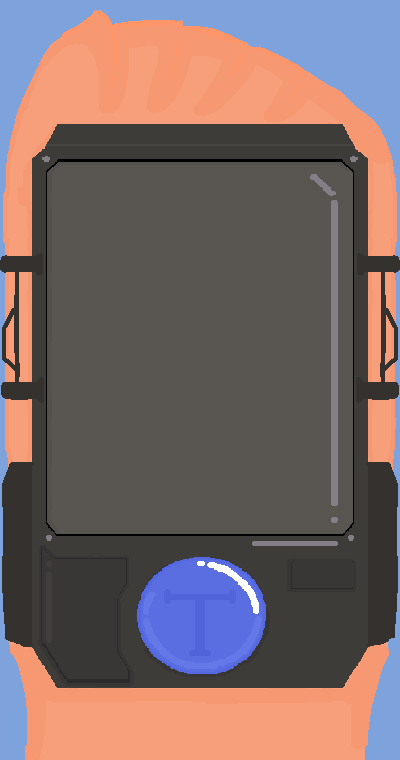
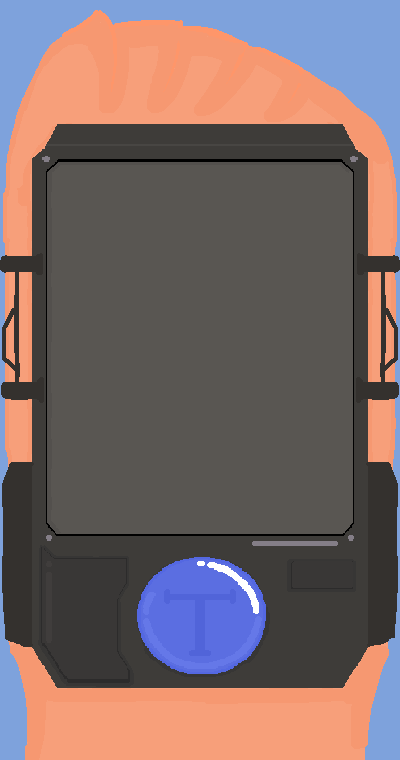
feat: added tower sprite sheet

Changed region(s): [[0.81, 0.2421, 0.87, 0.6961], [0.78, 0.2118, 0.81, 0.2421]]

diff --git a/src/visuals/antivirusVisual.ts b/src/visuals/antivirusVisual.ts
@@ -1,23 +1,63 @@
-import { Graphics } from 'pixi.js';
+import { AnimatedSprite, Assets, Container, Graphics, Rectangle, Texture } from 'pixi.js';
 import { PLACEHOLDER_COLORS } from '../config';
 import type { GameState } from '../types';
 
-// Placeholder — no dedicated art yet. Reuses the immunity-ring color/language so it reads
-// as "protected zone" consistently with the per-server immunity ring.
-export function buildAntivirusVisual(): Graphics {
-  const visual = new Graphics();
-  visual.label = 'antivirusTower';
-  visual.visible = false;
-  return visual;
+const FRAME_SIZE = 60;
+const FRAME_COUNT = 10;
+
+let towerTextures: Texture[] = [];
+
+// Slices public/assets/tower.png (600x60, 10 frames of 60x60) into the tower's idle/active
+// loop. Must resolve before the first buildAntivirusVisual() call — bootstrap() awaits this
+// ahead of the first startRun(), same as loadServerTextures.
+export async function loadAntivirusTextures(): Promise<void> {
+  const sheet = await Assets.load('/assets/tower.png');
+  sheet.source.scaleMode = 'nearest';
+
+  towerTextures = Array.from(
+    { length: FRAME_COUNT },
+    (_, i) => new Texture({ source: sheet.source, frame: new Rectangle(i * FRAME_SIZE, 0, FRAME_SIZE, FRAME_SIZE) }),
+  );
 }
 
-export function updateAntivirusVisual(visual: Graphics, state: GameState): void {
+// AOE ring (radius, placeholder) plus the tower body sprite, looping continuously for as
+// long as the tower is alive.
+export function buildAntivirusVisual(): Container {
+  const container = new Container();
+  container.label = 'antivirusTower';
+  container.visible = false;
+
+  const ring = new Graphics();
+  ring.label = 'ring';
+
+  const body = new AnimatedSprite(towerTextures);
+  body.label = 'body';
+  body.anchor.set(0.5);
+  body.animationSpeed = 0.15;
+  body.loop = true;
+  body.play();
+
+  container.addChild(ring, body);
+  return container;
+}
+
+export function updateAntivirusVisual(visual: Container, state: GameState): void {
   const tower = state.antivirusTower;
+  const wasVisible = visual.visible;
   visual.visible = tower !== null;
   if (!tower) return;
 
   visual.position.set(tower.worldX, tower.worldY);
-  visual
+
+  // Fresh loop from frame 0 on every new placement, not a continuation from wherever the
+  // last tower's animation happened to stop.
+  if (!wasVisible) {
+    const body = visual.getChildByLabel('body') as AnimatedSprite;
+    body.gotoAndPlay(0);
+  }
+
+  const ring = visual.getChildByLabel('ring') as Graphics;
+  ring
     .clear()
     .circle(0, 0, tower.radius)
     .fill({ color: PLACEHOLDER_COLORS.immunityRing, alpha: 0.08 })

diff --git a/src/visuals/dataPoolBar.ts b/src/visuals/dataPoolBar.ts
@@ -1,0 +1,50 @@
+import {
+  DATA_POOL_SLOT_COUNT,
+  DATA_POOL_SLOT_HEIGHT,
+  DATA_POOL_SLOT_WIDTH,
+  DATA_POOL_TIER_EMPTY_RATIO,
+  DATA_POOL_TIER_HALF_RATIO,
+} from '../config';
+import type { GameState } from '../types';
+
+const TEXTURE_FULL = '/assets/data-full.png';
+const TEXTURE_HALF = '/assets/data-half.png';
+const TEXTURE_EMPTY = '/assets/data-empty.png';
+
+// Side-screen Data Pool meter — plain DOM <img> slots, not Pixi, since the side screen
+// (index.html #dataScreen) is an HTML overlay, not the game canvas. Lives outside the
+// canvas's ticker; caller drives updateDataPoolBar() from the same loop as updateDataScreen.
+export function buildDataPoolBar(container: HTMLDivElement): HTMLImageElement[] {
+  container.innerHTML = '';
+  const slots: HTMLImageElement[] = [];
+
+  for (let i = 0; i < DATA_POOL_SLOT_COUNT; i++) {
+    const img = document.createElement('img');
+    img.width = DATA_POOL_SLOT_WIDTH;
+    img.height = DATA_POOL_SLOT_HEIGHT;
+    img.style.imageRendering = 'pixelated';
+    img.style.display = 'none';
+    container.appendChild(img);
+    slots.push(img);
+  }
+
+  return slots;
+}
+
+export function updateDataPoolBar(slots: HTMLImageElement[], state: GameState): void {
+  const ratio = state.dataPool / state.maxDataPool;
+  const tierSrc =
+    ratio > DATA_POOL_TIER_HALF_RATIO ? TEXTURE_FULL : ratio > DATA_POOL_TIER_EMPTY_RATIO ? TEXTURE_HALF : TEXTURE_EMPTY;
+  const slotValue = state.maxDataPool / DATA_POOL_SLOT_COUNT;
+  const filledSlots = Math.min(DATA_POOL_SLOT_COUNT, Math.floor(state.dataPool / slotValue));
+
+  for (let i = 0; i < slots.length; i++) {
+    const img = slots[i];
+    if (i < filledSlots) {
+      if (img.style.display === 'none') img.style.display = '';
+      if (!img.src.endsWith(tierSrc)) img.src = tierSrc;
+    } else if (img.style.display !== 'none') {
+      img.style.display = 'none';
+    }
+  }
+}

diff --git a/src/main.ts b/src/main.ts
@@ -1,6 +1,6 @@
 import { Application, Assets, Container, Graphics, Sprite, TilingSprite } from 'pixi.js';
 import { attemptPlaceAntivirusTower, updateAntivirusTower } from './antivirus';
-import { ROOM_BACKGROUND_COLOR, ROOM_HEIGHT, ROOM_WIDTH, SIDE_SCREEN_WIDTH } from './config';
+import { PLACEHOLDER_COLORS, ROOM_BACKGROUND_COLOR, ROOM_HEIGHT, ROOM_WIDTH, SIDE_SCREEN_WIDTH, WALL_THICKNESS } from './config';
 import { clampToRoom, resolveServerCollisions } from './collision';
 import { bootSequence, checkDialogTriggers, dismissActiveDialog, pumpDialogQueue } from './dialog';
 import { consumeAntivirusPress, consumeInteractPress, getMovementAxis, initInput } from './input';
@@ -11,9 +11,10 @@ import { checkTimeBasedAchievements, recordGameOverStats, recordGameStart, reque
 import { createGameState } from './state';
 import type { GameState } from './types';
 import { buildAchievementToast } from './visuals/achievementToast';
-import { buildAntivirusVisual, updateAntivirusVisual } from './visuals/antivirusVisual';
+import { buildAntivirusVisual, loadAntivirusTextures, updateAntivirusVisual } from './visuals/antivirusVisual';
 import { buildDialogBox } from './visuals/dialogBox';
 import { buildGameOverScreen } from './visuals/gameOverScreen';
+import { buildDataPoolBar, updateDataPoolBar } from './visuals/dataPoolBar';
 import { buildDataPoolHud, updateDataPoolHud } from './visuals/hud';
 import { updatePlayerVisual } from './visuals/playerVisual';
 import { loadServerTextures, updateServerVisual } from './visuals/serverVisual';
@@ -47,6 +48,10 @@ async function bootstrap(): Promise<void> {
   if (!dataScreenContentEl) throw new Error('#dataScreenContent element not found');
   const dataScreenContent = dataScreenContentEl;
 
+  const dataPoolBarEl = document.querySelector<HTMLDivElement>('#dataPoolBar');
+  if (!dataPoolBarEl) throw new Error('#dataPoolBar element not found');
+  const dataPoolBarSlots = buildDataPoolBar(dataPoolBarEl);
+
   function updateDataScreen(state: GameState): void {
     const seconds = Math.floor(state.elapsedMs / 1000);
     const mm = String(Math.floor(seconds / 60)).padStart(2, '0');
@@ -58,6 +63,7 @@ async function bootstrap(): Promise<void> {
       'SYSTEM STATUS',
       '',
       `DATA POOL   ${Math.ceil(state.dataPool)} / ${state.maxDataPool} TB`,
+      '', // reserved line — #dataPoolBar overlays this slot, see style.css
       `PATCHES     ${state.totalPatches}`,
       `UPTIME      ${mm}:${ss}`,
       `INFECTED    ${infectedCount} / ${state.servers.length}`,
@@ -87,12 +93,24 @@ async function bootstrap(): Promise<void> {
   wiresTexture.source.scaleMode = 'nearest';
   // Must resolve before createGameState()/startRun() build any server visuals.
   await loadServerTextures();
+  await loadAntivirusTextures();
 
   const roomFloor = new Container();
   roomFloor.label = 'roomFloor';
   const floorTiling = new TilingSprite({ texture: floorTexture, width: ROOM_WIDTH, height: ROOM_HEIGHT });
   const floorBorder = new Graphics().rect(0, 0, ROOM_WIDTH, ROOM_HEIGHT).stroke({ width: 2, color: 0x2a2f3a });
-  roomFloor.addChild(floorTiling, floorBorder);
+
+  // Perimeter walls, WALL_THICKNESS thick on all four sides — carved out of the walkable floor
+  // and enforced in collision.ts's clampToRoom, not just drawn here.
+  const walls = new Graphics()
+    .rect(0, 0, ROOM_WIDTH, WALL_THICKNESS)
+    .rect(0, ROOM_HEIGHT - WALL_THICKNESS, ROOM_WIDTH, WALL_THICKNESS)
+    .rect(0, 0, WALL_THICKNESS, ROOM_HEIGHT)
+    .rect(ROOM_WIDTH - WALL_THICKNESS, 0, WALL_THICKNESS, ROOM_HEIGHT)
+    .fill(PLACEHOLDER_COLORS.wall);
+  walls.label = 'walls';
+
+  roomFloor.addChild(floorTiling, floorBorder, walls);
 
   // Full-room overlay (960x760, matches ROOM_WIDTH x ROOM_HEIGHT exactly) — sits above the
   // floor and below the server racks so wiring reads as running under/behind the servers.
@@ -259,6 +277,7 @@ async function bootstrap(): Promise<void> {
 
     updateDataPoolHud(dataPoolHud, state);
     updateDataScreen(state);
+    updateDataPoolBar(dataPoolBarSlots, state);
 
     if (state.player.currentState !== prevPlayerState || state.player.facing !== prevFacing) {
       console.log(`[player] state=${state.player.currentState} facing=${state.player.facing} @ ${state.elapsedMs.toFixed(0)}ms`);

diff --git a/src/config.ts b/src/config.ts
@@ -19,6 +19,16 @@ export const SERVER_FOOTPRINT = 72; // px, roughly square footprint per unit inc
 // blocked zones overlap and seal the corridor between them.
 export const ROOM_CELL_SIZE = 170;
 
+// Max random per-axis offset applied to each server's grid slot (see room.ts layoutServers) so
+// racks read as a jittered grid instead of a rigid one. Worst case two adjacent racks jitter
+// straight at each other, eating 2x this from the 34px corridor left by ROOM_CELL_SIZE above
+// (170 - 2*68 = 34) — keep this below 17 or the corridor between two racks can seal shut.
+export const SERVER_JITTER = 12;
+
+// SECTION — Room walls (perimeter, drawn as a thick border and carved out of the walkable
+// floor). clampToRoom (collision.ts) insets the player bound by this on top of boundingRadius.
+export const WALL_THICKNESS = 32;
+
 // SECTION 4.1 — Placeholder Visual Config
 export const PLACEHOLDER_COLORS = {
   player: {
@@ -38,6 +48,7 @@ export const PLACEHOLDER_COLORS = {
   guideAvatar: 0x6fce8f,
   dialogPanel: 0x1c1e26,
   dialogPanelBorder: 0x4fa8ff,
+  wall: 0x2f333d,
 } as const;
 
 export const ROOM_BACKGROUND_COLOR = 0x11141b;
@@ -45,3 +56,15 @@ export const ROOM_BACKGROUND_COLOR = 0x11141b;
 // SECTION — Side data screen (bezel asset public/assets/screen.png is authored at this exact size)
 export const SIDE_SCREEN_WIDTH = 400; // px
 export const SIDE_SCREEN_HEIGHT = 760; // px, matches ROOM_HEIGHT so the two panels align edge-to-edge
+
+// SECTION — Data Pool progress bar (side screen). Segment count is a display resolution
+// choice, not tied to any other constant — slot value (TB per segment) is derived from
+// maxDataPool at render time so it stays correct if maxDataPool ever changes.
+export const DATA_POOL_SLOT_COUNT = 20; // 500 TB per slot @ maxDataPool 10000
+export const DATA_POOL_SLOT_WIDTH = 14; // px, matches public/assets/data-*.png frame size
+export const DATA_POOL_SLOT_HEIGHT = 28; // px
+// Tier thresholds pick which of the 3 slot textures (public/assets/data-full/-half/-empty.png)
+// filled slots render with. Independent of the 50%/25% dialog-warning thresholds in dialog.ts —
+// this is a visual read of pool health, not an event trigger.
+export const DATA_POOL_TIER_HALF_RATIO = 0.5;
+export const DATA_POOL_TIER_EMPTY_RATIO = 0.2;

diff --git a/src/room.ts b/src/room.ts
@@ -1,4 +1,13 @@
-import { GRID_COLS, GRID_ROWS, RACK_COUNT, ROOM_CELL_SIZE, ROOM_HEIGHT, ROOM_WIDTH, SERVER_FOOTPRINT } from './config';
+import {
+  GRID_COLS,
+  GRID_ROWS,
+  RACK_COUNT,
+  ROOM_CELL_SIZE,
+  ROOM_HEIGHT,
+  ROOM_WIDTH,
+  SERVER_FOOTPRINT,
+  SERVER_JITTER,
+} from './config';
 import type { RoomLayout } from './types';
 
 // Centers the cols x rows server grid within the room, leaving equal margins
@@ -21,14 +30,19 @@ export function createRoomLayout(): RoomLayout {
 }
 
 // SECTION 1.6 — worldX/worldY are computed once at layout time, not re-derived every frame.
+// Each slot gets a random +/- SERVER_JITTER offset so the racks read as a jittered grid rather
+// than a rigid one; magnitude is capped (see config.ts) to guarantee inter-rack corridors never
+// seal shut.
 export function layoutServers(layout: RoomLayout): { worldX: number; worldY: number }[] {
   const positions = [];
   for (let i = 0; i < RACK_COUNT; i++) {
     const gx = i % layout.cols;
     const gy = Math.floor(i / layout.cols);
+    const jitterX = (Math.random() * 2 - 1) * SERVER_JITTER;
+    const jitterY = (Math.random() * 2 - 1) * SERVER_JITTER;
     positions.push({
-      worldX: layout.originX + gx * layout.cellSize,
-      worldY: layout.originY + gy * layout.cellSize,
+      worldX: layout.originX + gx * layout.cellSize + jitterX,
+      worldY: layout.originY + gy * layout.cellSize + jitterY,
     });
   }
   return positions;

diff --git a/src/collision.ts b/src/collision.ts
@@ -1,10 +1,15 @@
-import { ROOM_HEIGHT, ROOM_WIDTH, SERVER_FOOTPRINT } from './config';
+import { ROOM_HEIGHT, ROOM_WIDTH, SERVER_FOOTPRINT, WALL_THICKNESS } from './config';
 import type { PlayerComponent, ServerComponent } from './types';
 
-// SECTION 1.6 — Player movement clamping (room walls)
+// SECTION 1.6 — Player movement clamping (room walls). Bound is inset by WALL_THICKNESS on top
+// of boundingRadius so the player's edge stops at the wall's inner face, not the room's outer edge.
 export function clampToRoom(player: PlayerComponent): void {
-  player.x = Math.max(player.boundingRadius, Math.min(ROOM_WIDTH - player.boundingRadius, player.x));
-  player.y = Math.max(player.boundingRadius, Math.min(ROOM_HEIGHT - player.boundingRadius, player.y));
+  const minX = WALL_THICKNESS + player.boundingRadius;
+  const maxX = ROOM_WIDTH - WALL_THICKNESS - player.boundingRadius;
+  const minY = WALL_THICKNESS + player.boundingRadius;
+  const maxY = ROOM_HEIGHT - WALL_THICKNESS - player.boundingRadius;
+  player.x = Math.max(minX, Math.min(maxX, player.x));
+  player.y = Math.max(minY, Math.min(maxY, player.y));
 }
 
 // SECTION 1.6 — Player<->server collision (AABB, resolved after movement, before render)

diff --git a/src/style.css b/src/style.css
@@ -61,6 +61,19 @@ body {
   white-space: pre-wrap;
 }
 
+/* 20 slots x 14px = 280px, centered in the 292px text box. Overlays the blank line
+   main.ts reserves right after the "DATA POOL" text line (3 lines x 24px line-height
+   from top:168px = 240px) — the 28px-tall bar overflows 4px into the next line's box,
+   which is fine since text glyphs don't fill their full line-height. */
+#dataPoolBar {
+  position: absolute;
+  left: 60px;
+  top: 240px;
+  width: 280px;
+  height: 28px;
+  display: flex;
+}
+
 #app {
   flex: 0 0 960px;
   width: 960px;

diff --git a/src/state.ts b/src/state.ts
@@ -1,4 +1,4 @@
-import { ROOM_HEIGHT, ROOM_WIDTH } from './config';
+import { ROOM_HEIGHT, ROOM_WIDTH, WALL_THICKNESS } from './config';
 import { createPlayer, createServers } from './entities';
 import { createRoomLayout } from './room';
 import type { GameState } from './types';
@@ -13,7 +13,9 @@ export function createGameState(): GameState {
     totalPatches: 0,
     lastDuplicationMultiple: 0,
     servers: createServers(layout),
-    player: createPlayer(ROOM_WIDTH / 2, ROOM_HEIGHT - 60),
+    // -32 boundingRadius matches createPlayer's fixed value; clampToRoom would otherwise
+    // yank the player up on the very first tick since this spot now sits inside the wall.
+    player: createPlayer(ROOM_WIDTH / 2, ROOM_HEIGHT - WALL_THICKNESS - 32),
     dialog: {
       queue: [],
       activeEvent: null,

diff --git a/index.html b/index.html
@@ -10,6 +10,7 @@
     <div id="gameRoot">
       <div id="dataScreen">
         <pre id="dataScreenContent"></pre>
+        <div id="dataPoolBar"></div>
       </div>
       <div id="app"></div>
     </div>